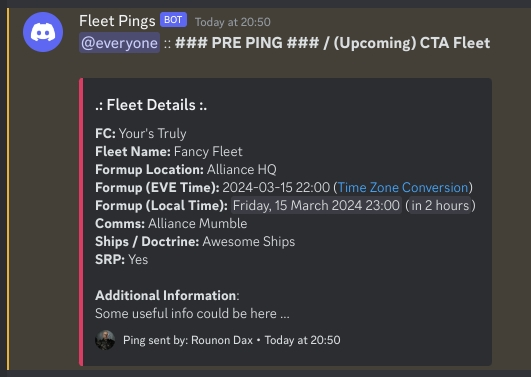
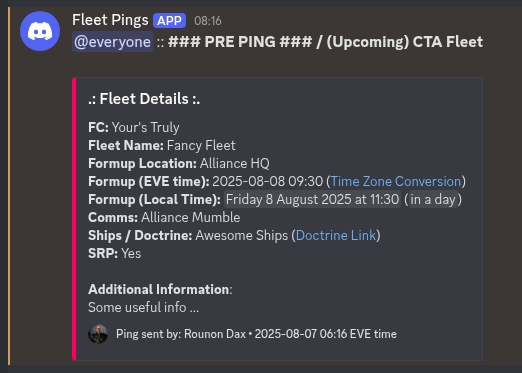
[MISC] Screenshots updated

Changed region(s): [[0.1226, 0.2064, 0.9195, 0.9732], [0.0, 0.0295, 0.9195, 0.9732]]

diff --git a/README.md b/README.md
@@ -24,7 +24,9 @@ ______________________________________________________________________
 
 - [Screenshots](#screenshots)
   - [View in Alliance Auth](#view-in-alliance-auth)
-  - [Discord Ping Example](#discord-ping-example)
+  - [Discord Ping Examples](#discord-ping-examples)
+    - [Pre-Ping](#pre-ping)
+    - [Formup: NOW](#formup-now)
 - [Installation](#installation)
   - [Bare Metal Installation](#bare-metal-installation)
     - [Step 1: Install the App](#step-1-install-the-app)
@@ -61,9 +63,15 @@ ______________________________________________________________________
 
 ![View in Alliance Auth](https://raw.githubusercontent.com/ppfeufer/aa-fleetpings/master/docs/images/aa-view.jpg "View in Alliance Auth")
 
-### Discord Ping Example<a name="discord-ping-example"></a>
+### Discord Ping Examples<a name="discord-ping-examples"></a>
 
-![Discord Ping Example](https://raw.githubusercontent.com/ppfeufer/aa-fleetpings/master/docs/images/discord-ping.jpg "Discord Ping Example")
+#### Pre-Ping<a name="pre-ping"></a>
+
+![Discord Ping Example: Pre-Ping](https://raw.githubusercontent.com/ppfeufer/aa-fleetpings/master/docs/images/discord-ping.jpg "Discord Ping Example: Pre-Ping")
+
+#### Formup: NOW<a name="formup-now"></a>
+
+![Discord Ping Example: Formup NOW](https://raw.githubusercontent.com/ppfeufer/aa-fleetpings/master/docs/images/discord-ping-formup-now.jpg "Discord Ping Example: Formup NOW")
 
 ## Installation<a name="installation"></a>
 
